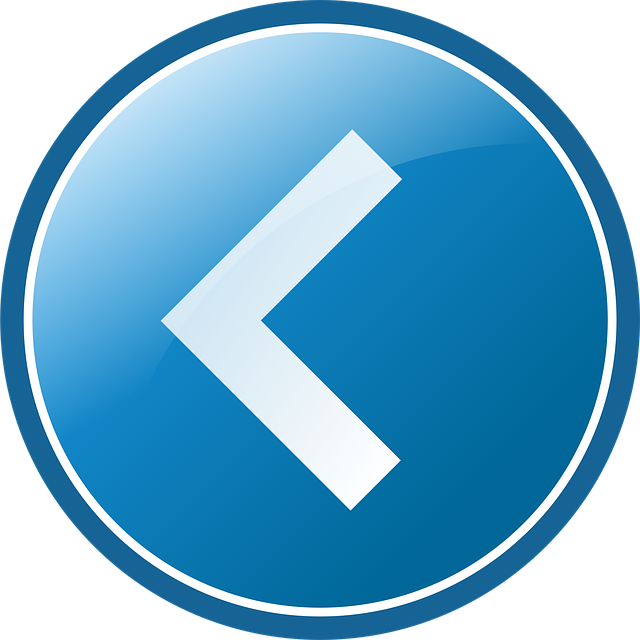
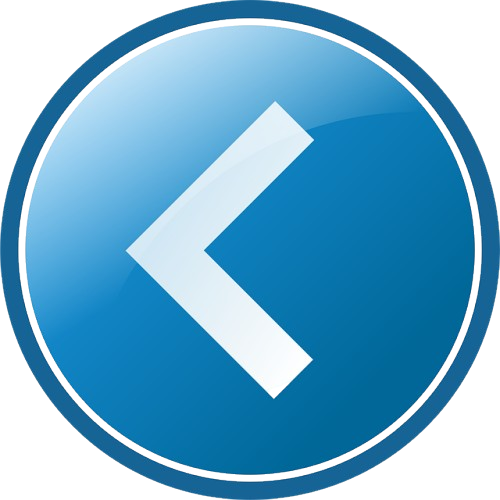
img

diff --git a/style.css b/style.css
@@ -80,12 +80,11 @@ body {
     font-size: 15px;
     width: 400px;
     background-color: transparent;
-    
     overflow: hidden;
     border-radius: 20px;
 }
 
-#pokemonDialog img {
+#pokemonDialog img[data-id="dialog-image"] {
     width:150px;
     height: auto;
 }
@@ -143,7 +142,7 @@ body {
 
 .pokemon-data {
     display: flex;
-    justify-content: center;
+    justify-content: space-between;
     align-items: center;
     flex-direction: column;
     
@@ -151,12 +150,15 @@ body {
 
 .dialog-change {
     display: flex;
-    justify-content: space-around;
+    justify-content: space-between;
     align-items: center;
+    gap: 100px;
 }
 
-.dialog-change img {
-    width: 200px;
+.dialog-arrow-btn img, 
+#prev-button img, 
+#next-button img {
+    width: 25px; 
     height: auto;
 }
 
